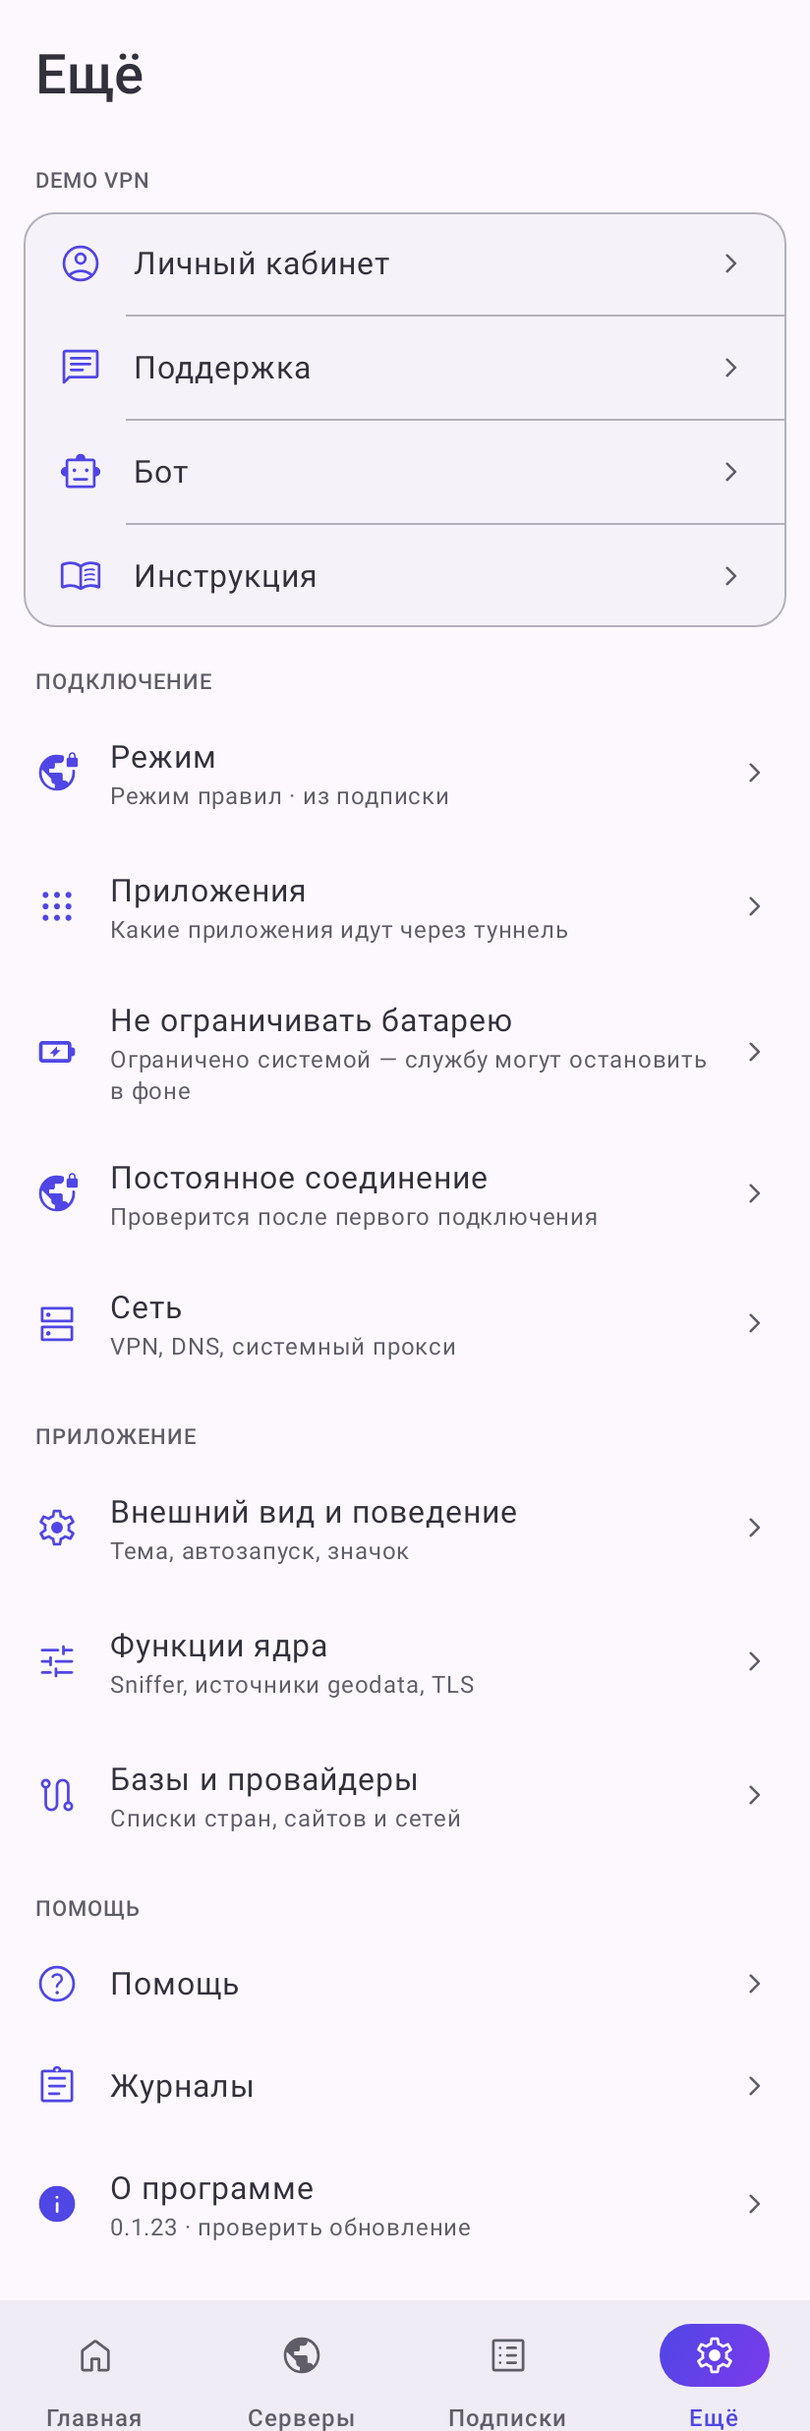
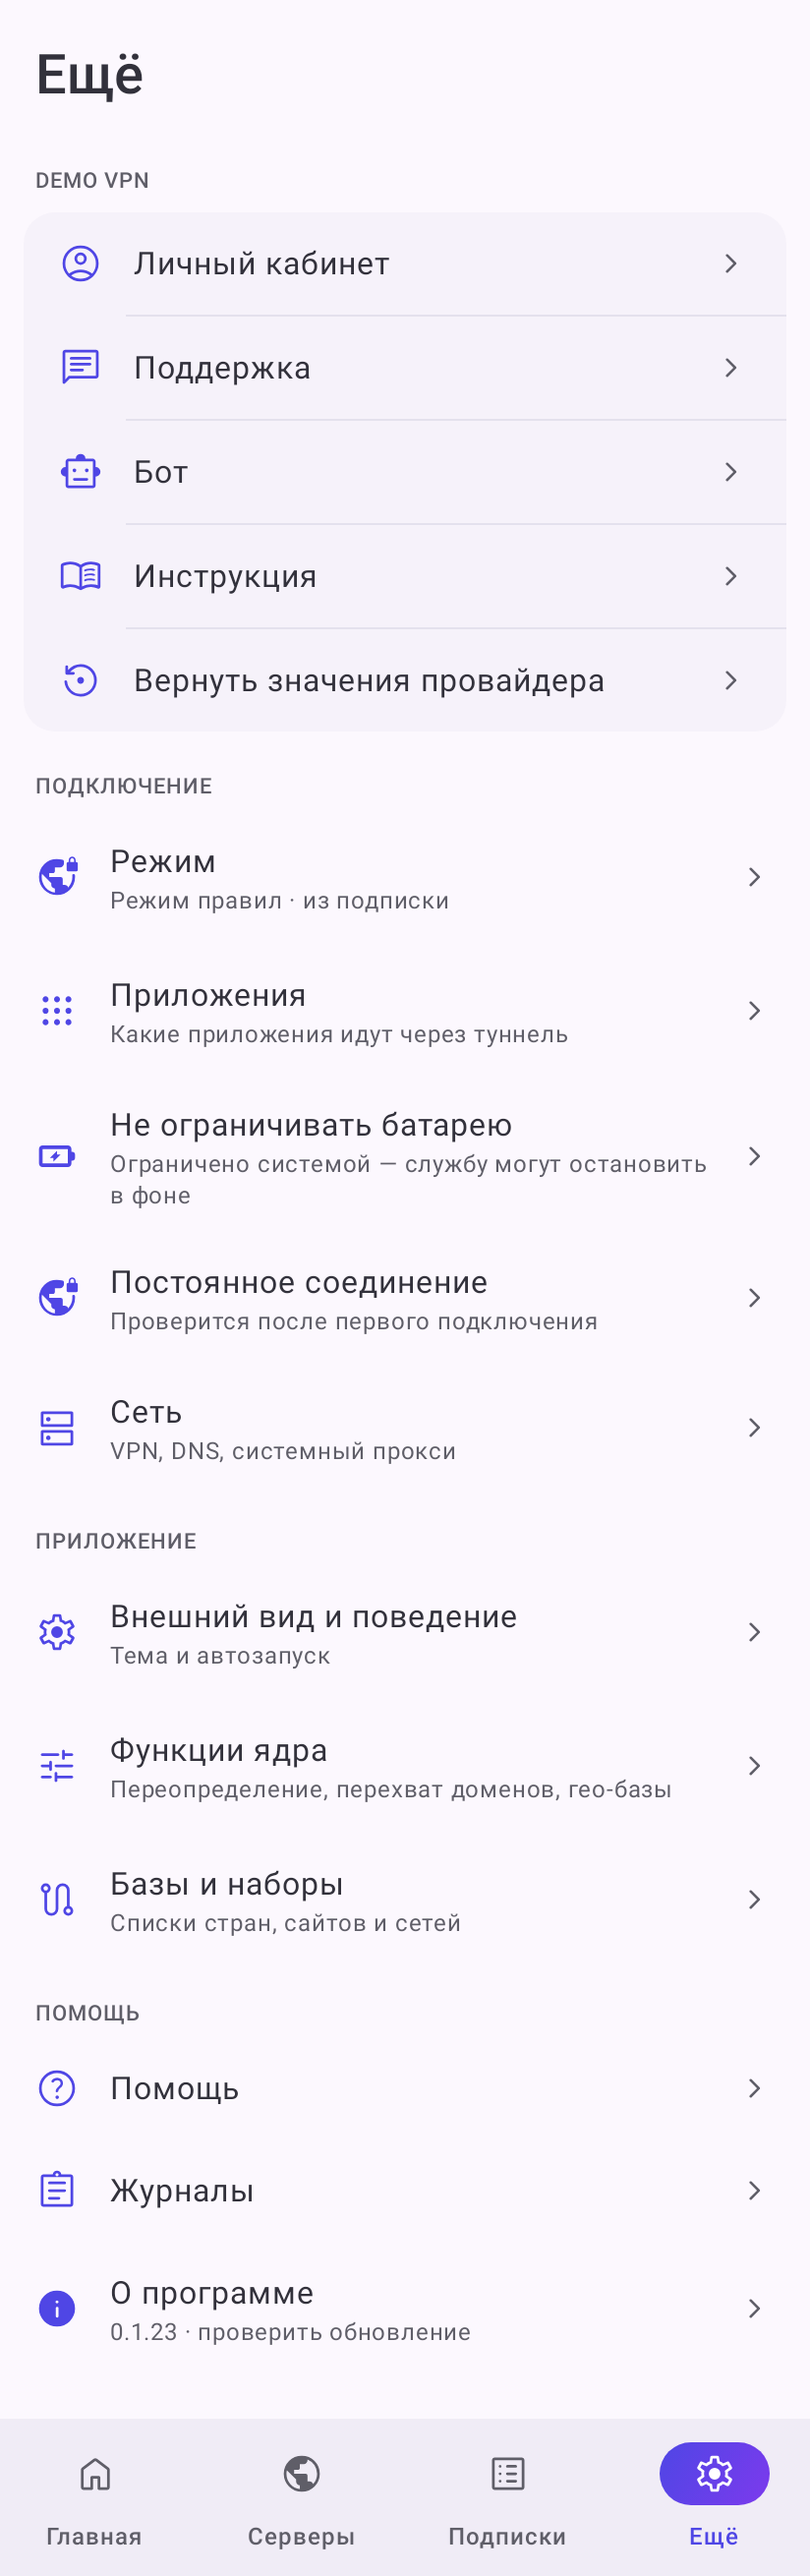
docs: скриншот «Ещё» с пунктом «Вернуть значения провайдера»

diff --git a/screenshots/src/test/java/com/github/kr328/clash/screenshots/Screenshots.kt b/screenshots/src/test/java/com/github/kr328/clash/screenshots/Screenshots.kt
@@ -378,8 +378,8 @@ class Screenshots {
     }
 
     @Test
-    @Config(qualifiers = "+h1250dp")
-    fun more() = shoot("more", height = 1250) {
+    @Config(qualifiers = "+h1310dp")
+    fun more() = shoot("more", height = 1310) {
         MainScreen(state = state(tab = MainTab.More), onAction = {})
     }
 
